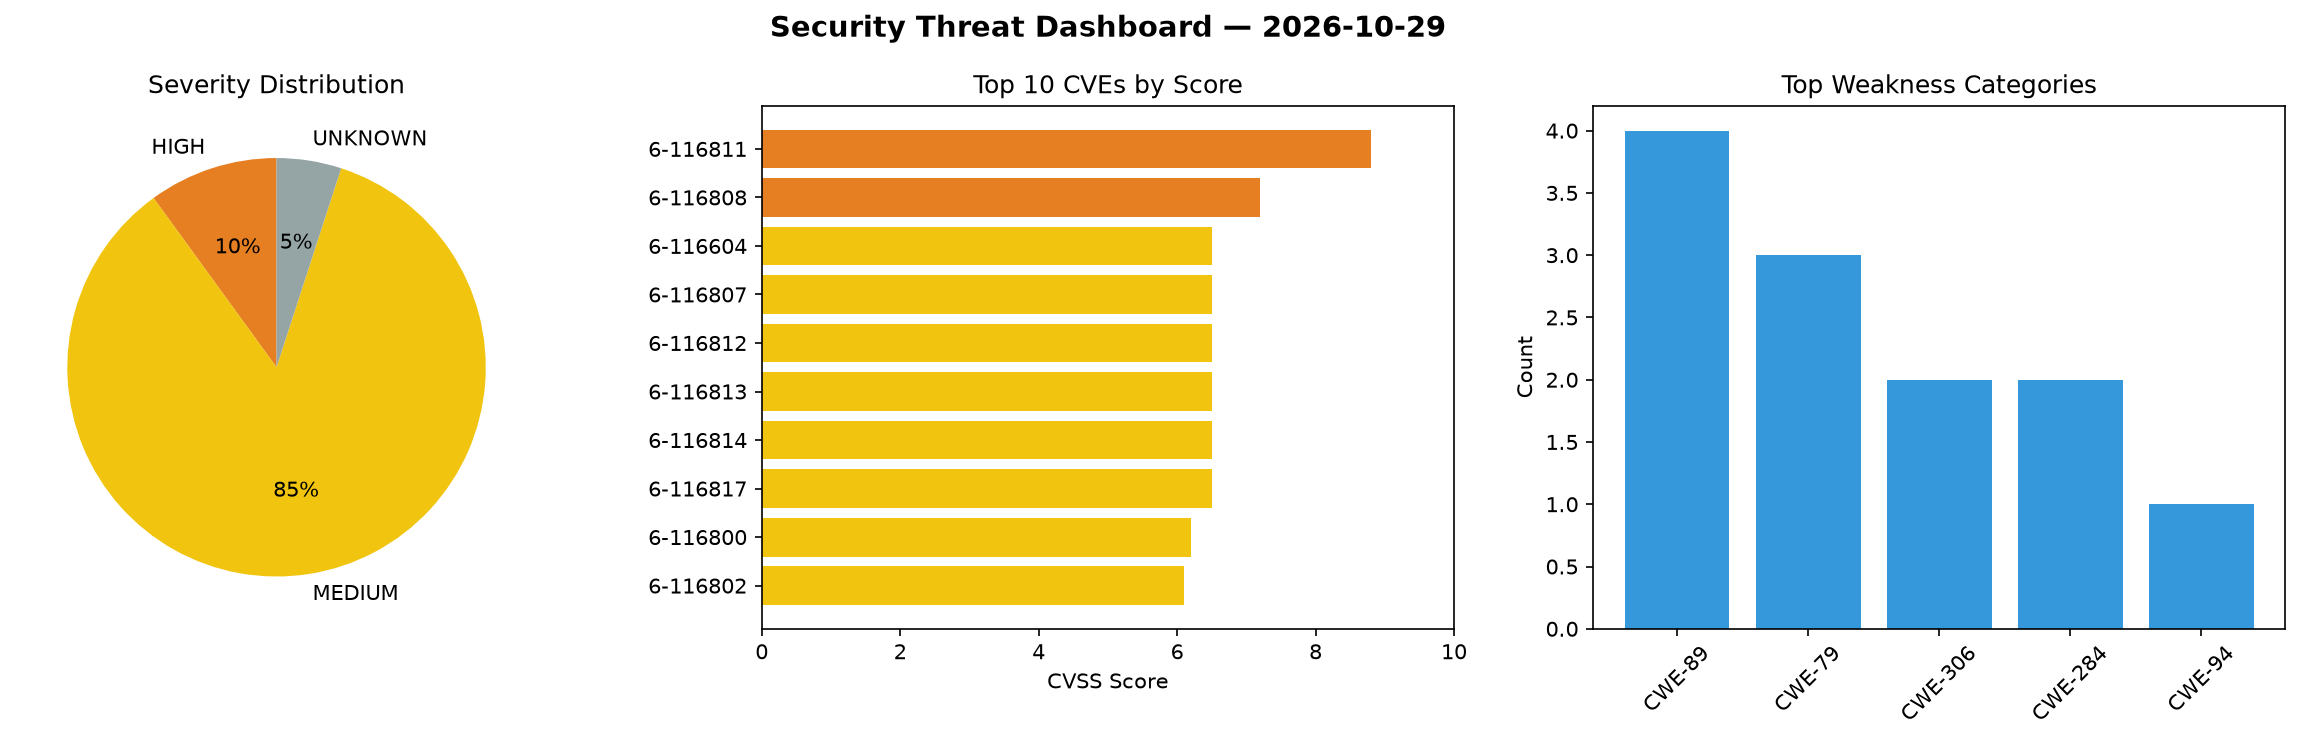
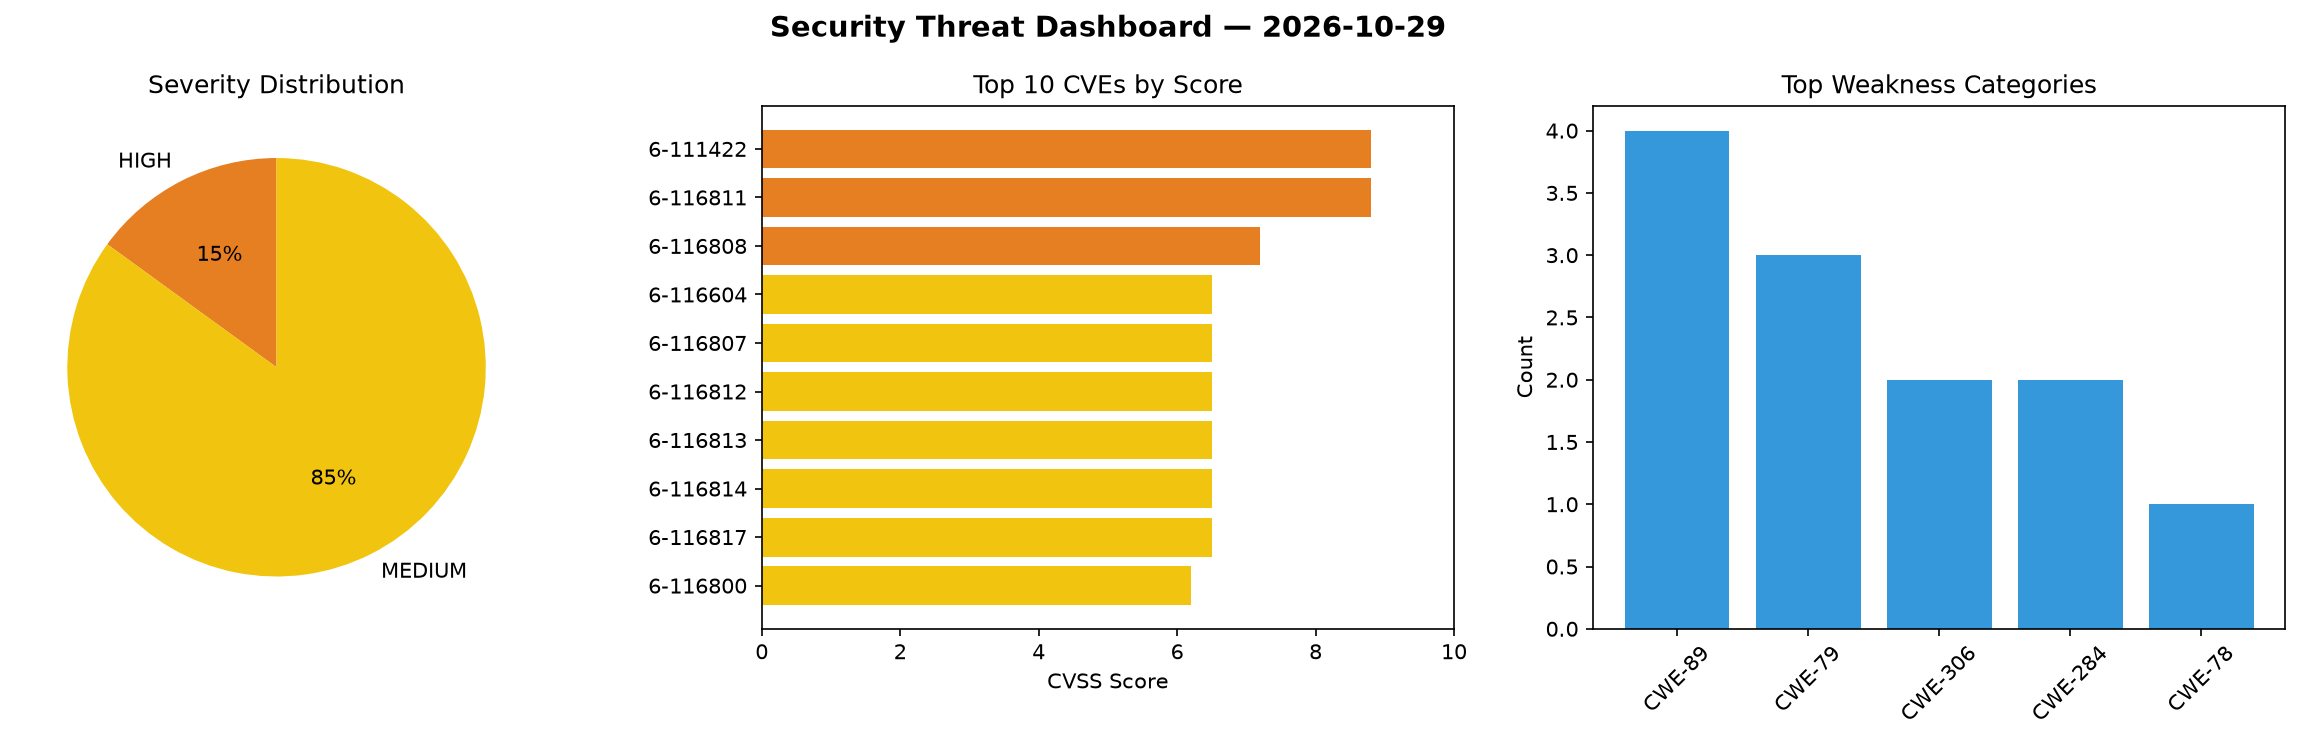
daily-experiments: security scan 2026-10-29T15:17

diff --git a/logs/2026-10-29.md b/logs/2026-10-29.md
@@ -1,6 +1,6 @@
 # Security Scan Report — 2026-10-29
 
-**Scan ID:** `a0dbc841a4` | **CVEs:** 20 | **Threat Index:** 242.2
+**Scan ID:** `d6af533092` | **CVEs:** 20 | **Threat Index:** 268.6
 
 ![Dashboard](2026-10-29_dashboard.png)
 
@@ -10,18 +10,17 @@
 
 | Metric | Value |
 |--------|-------|
-| Threat Index | 242.2 |
+| Threat Index | 268.6 |
 | Critical CVEs | 0 |
-| HIGH | 2 |
+| HIGH | 3 |
 | MEDIUM | 17 |
-| UNKNOWN | 1 |
 
 ## Delta vs Yesterday
 
 | Metric | Today | Yesterday | Change |
 |--------|-------|-----------|--------|
 | total_cves | 20 | 20 | ➡ 0.0% |
-| threat_index | 242.2 | 244.6 | 📉 -1.0% |
+| threat_index | 268.6 | 244.6 | 📈 9.8% |
 | critical_count | 0 | 0 | ➡ 0% |
 
 ## Top Weakness Categories
@@ -32,12 +31,13 @@
 | CWE-79 | 3 |
 | CWE-306 | 2 |
 | CWE-284 | 2 |
-| CWE-94 | 1 |
+| CWE-78 | 1 |
 
 ## CVE Details
 
 | CVE ID | Score | Severity | Description |
 |--------|-------|----------|-------------|
+| CVE-2026-111422 | 8.8 | HIGH | In apache-airflow-providers-ssh before 7.0.1, SSHRemoteJobOperator quoted the va... |
 | CVE-2026-116811 | 8.8 | HIGH | OpenPanel before 3.0.0 contains a sandbox escape vulnerability in the js-runtime... |
 | CVE-2026-116808 | 7.2 | HIGH | OpenPanel before 3.0.0 contains an sql injection vulnerability that allows authe... |
 | CVE-2026-116604 | 6.5 | MEDIUM | A vulnerability has been found in SourceCodester Online Food Ordering System 1.0... |
@@ -52,4 +52,3 @@
 | CVE-2026-116804 | 6.1 | MEDIUM | DOMPurify from 3.4.4 before 3.4.17 contains a SAFE_FOR_TEMPLATES bypass that let... |
 | CVE-2026-116806 | 5.4 | MEDIUM | OpenPanel before 3.0.0 contains a missing authorization vulnerability in the onb... |
 | CVE-2026-116809 | 5.3 | MEDIUM | OpenPanel before 3.0.0 contains a missing authorization vulnerability in the eve... |
-| CVE-2026-116810 | 5.3 | MEDIUM | OpenPanel before 3.0.0 contains a missing authorization vulnerability that allow... |
